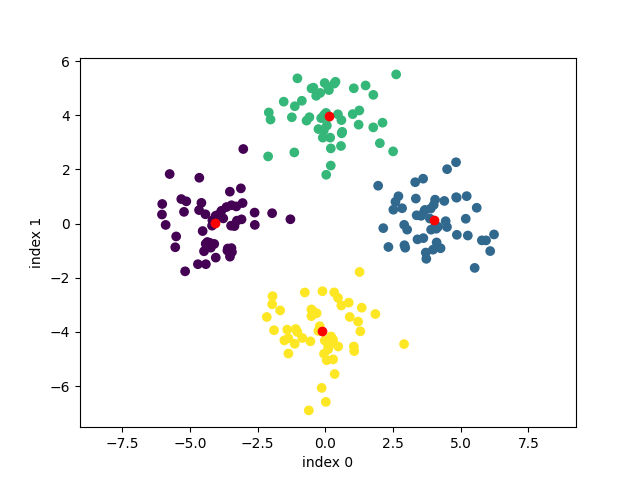
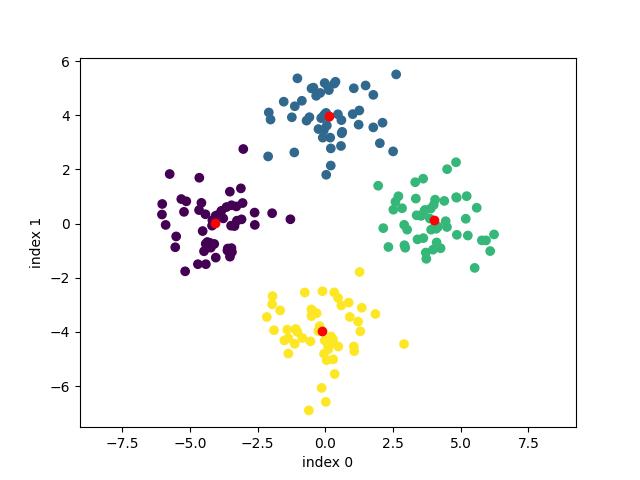
Update kmeans classification and image compression

diff --git a/K-means/kmeans.py b/K-means/kmeans.py
@@ -55,8 +55,16 @@ def get_k_means_plus_plus_center_indices(n, n_cluster, x, generator=np.random):
     while len(centers) < n_cluster:
         # Obtain distances from any sample to all centroids
         distances = squared_euclidean_distances(x=x, y=centroids)
+        chosen = np.min(distances, axis=1)
+        cumulative, r, probs = 0.0, generator.rand(), chosen / np.sum(chosen)
 
-        centers.append(np.argmax(np.min(distances, axis=1)))
+        # Sampling
+        for i in range(n):
+            cumulative += probs[i]
+            if cumulative > r:
+                centers.append(i)
+                break
+
         centroids = np.row_stack((centroids, x[centers[-1]]))
 
     # DO NOT CHANGE CODE BELOW THIS LINE
@@ -104,10 +112,9 @@ class KMeans():
         self.centers = centroid_func(len(x), self.n_cluster, x, self.generator)
 
         # Obtain the centroid matrix
-        i, centroids = 1, np.array(x[self.centers[0]]).reshape(1, -1)
-        while i < len(self.centers):
-            centroids = np.row_stack((centroids, x[self.centers[i]]))
-            i += 1
+        centroids = np.zeros((self.n_cluster, D))
+        for i in range(len(self.centers)):
+            centroids[i] = x[self.centers[i]]
 
         # TODO: Update means and membership until convergence
         #   (i.e., average K-mean objective changes less than self.e)
@@ -174,14 +181,32 @@ class KMeansClassifier:
 
         self.generator.seed(42)
         N, D = x.shape
-        ################################################################
+
         # TODO:
         # - assign means to centroids (use KMeans class you implemented, 
         #      and "fit" with the given "centroid_func" function)
         # - assign labels to centroid_labels
-        ################################################################
-        # FIXME
-        raise NotImplementedError
+        kmeans = KMeans(n_cluster=self.n_cluster, max_iter=self.max_iter, e=self.e, generator=self.generator)
+        centroids, clustering, itr = kmeans.fit(x=x, centroid_func=centroid_func)
+
+        # Voters for every cluster
+        polling = []
+        for _ in range(self.n_cluster):
+            polling.append({})
+
+        # Collect votes for every cluster
+        for cluster, label in zip(clustering, y):
+            if label not in polling[cluster]:
+                polling[cluster][label] = 0
+
+            polling[cluster][label] += 1
+
+        # Vote
+        centroid_labels = []
+        for poll in polling:
+            centroid_labels.append(max(poll, key=poll.get))
+        centroid_labels = np.array(centroid_labels)
+
         # DO NOT CHANGE CODE BELOW THIS LINE
         self.centroid_labels = centroid_labels
         self.centroids = centroids
@@ -205,11 +230,16 @@ class KMeansClassifier:
 
         self.generator.seed(42)
         N, D = x.shape
-        ##########################################################################
+
         # TODO:
         # - for each example in x, predict its label using 1-NN on the stored 
         #    dataset (self.centroids, self.centroid_labels)
-        ##########################################################################
+        distances = squared_euclidean_distances(x=x, y=self.centroids)
+        clustering = np.argmin(distances, axis=1)
+
+        y_predict = self.centroid_labels[clustering]
+
+        return np.array(y_predict)
 
 
 def transform_image(image, code_vectors):
@@ -228,16 +258,16 @@ def transform_image(image, code_vectors):
 
     assert code_vectors.shape[1] == 3 and len(code_vectors.shape) == 2, \
         'code_vectors should be a 2-D array with size (?,3)'
-    ##############################################################################
+
     # TODO
     # - replace each pixel (a 3-dimensional point) by its nearest code vector
-    ##############################################################################
+    N, M, D = image.shape
+    flatten = image.reshape(N*M, D)
 
+    # Assign every pixel to its nearest code vector
+    distances = squared_euclidean_distances(x=flatten, y=code_vectors)
+    assignment = np.argmin(distances, axis=1)
+    compressed = code_vectors[assignment].reshape(N, M, D)
 
-if __name__ == '__main__':
-    np.random.seed(40)
-    n = 10
-    x = np.array([[2, 2], [3, 1], [3, 2], [4, 2], [6, 7], [7, 7], [6, 8], [0, 6], [1, 6], [1, 7]], dtype=np.float)
-    n_cluster = 3
-    centers = get_k_means_plus_plus_center_indices(n, n_cluster, x)
-    print(centers)
+    return compressed
+

diff --git a/K-means/kmeansTest.py b/K-means/kmeansTest.py
@@ -171,5 +171,5 @@ def kmeans_classification_builder(centroid_func, x_train, x_test, y_train, y_tes
 
 if __name__ == '__main__':
     kmeans_toy()
-    # kmeans_image_compression()
-    # kmeans_classification()
+    kmeans_image_compression()
+    kmeans_classification()
